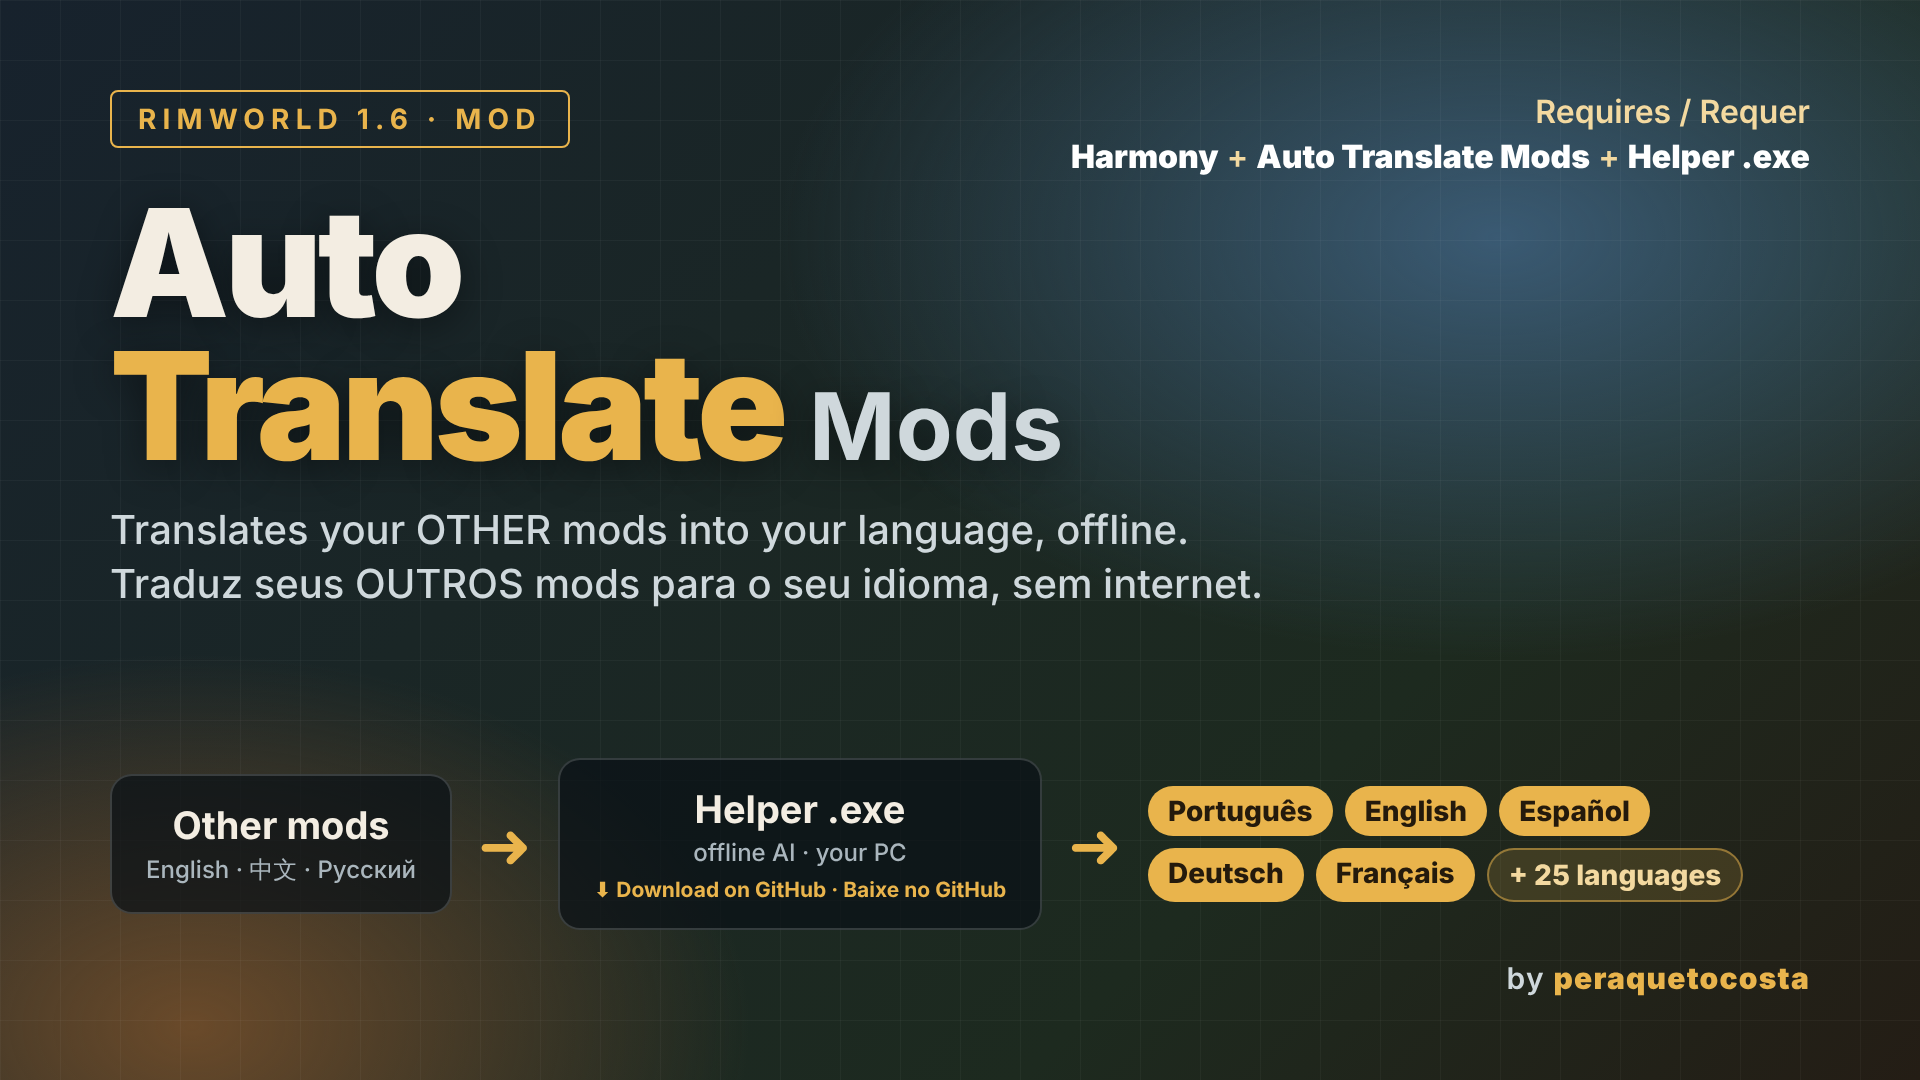
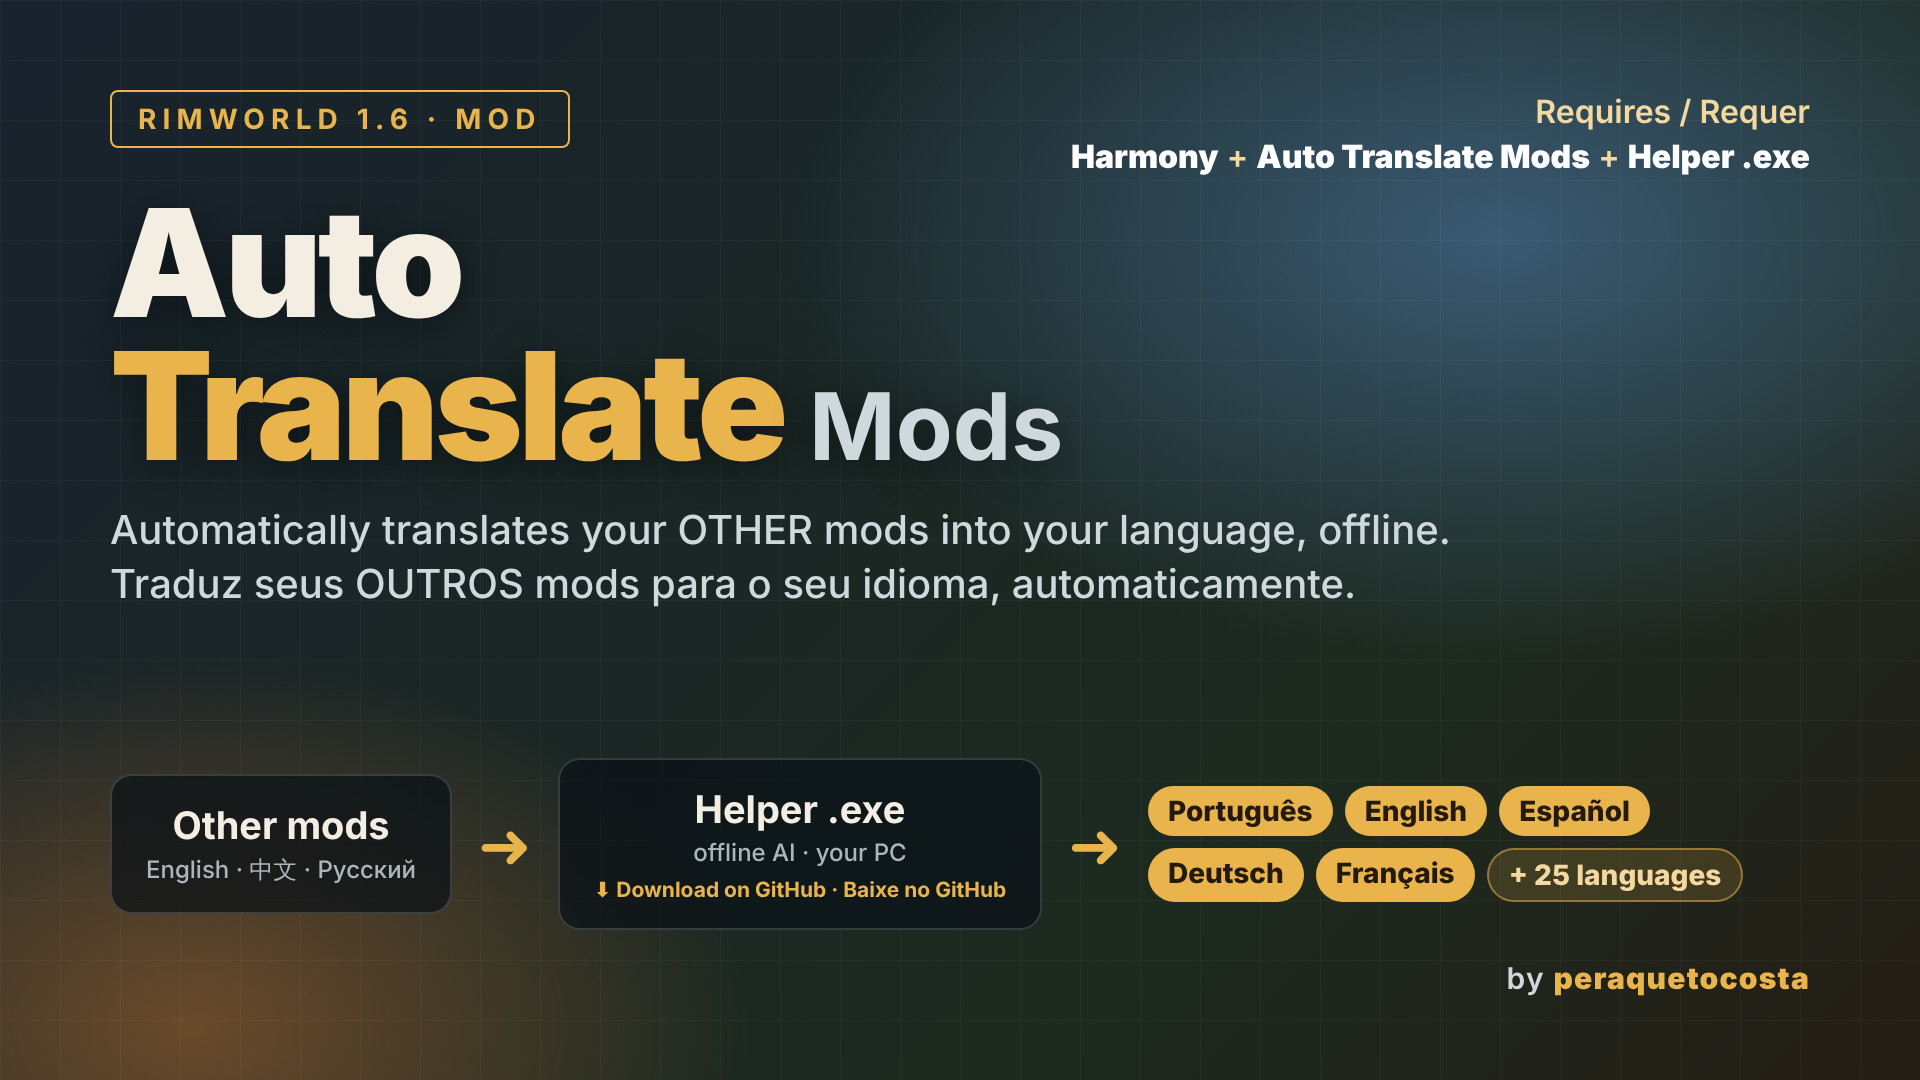
v0.016: descrição, nome e autor do mod, frase da capa
- Alterado: descrição do mod no jogo (inglês e português): "EM DESENVOLVIMENTO" em uma linha própria, "Feito com a ajuda do Claude Code", aviso de erros e bugs de tradução para reportar, uma linha em branco entre os blocos, e sem o link do Harmony (a dependência já mostra o botão de assinar); a versão saiu da descrição.
- Alterado: o mod agora se chama "Auto Translate Mods" e o autor é "peraquetocosta".
- Alterado: tools/set_version.py não atualiza mais a versão dentro do About.xml, porque ela saiu da descrição.
- Alterado: capa do mod: a frase de apoio diz que a tradução é automática ("Automatically translates..." e "Traduz seus OUTROS mods para o seu idioma, automaticamente.").

Changed region(s): [[0.0625, 0.4583, 0.75, 0.55]]

diff --git a/assets/cover.html b/assets/cover.html
@@ -22,7 +22,7 @@ h1 em{font-style:normal;font-weight:700;color:#cfd8dc;font-size:.62em;letter-spa
 </style></head><body><div class="grid"></div><div class="wrap">
 <div class="tag">RimWorld 1.6 · Mod</div>
 <h1>Auto<br><span>Translate</span> <em>Mods</em></h1>
-<div class="sub">Translates your OTHER mods into your language, offline.<br>Traduz seus OUTROS mods para o seu idioma, sem internet.</div>
+<div class="sub">Automatically translates your OTHER mods into your language, offline.<br>Traduz seus OUTROS mods para o seu idioma, automaticamente.</div>
 <div class="need">Requires / Requer<br><b>Harmony</b> + <b>Auto Translate Mods</b> + <b>Helper .exe</b></div>
 <div class="flow">
 <div class="box">Other mods<small>English · 中文 · Русский</small></div>

diff --git a/tools/set_version.py b/tools/set_version.py
@@ -1,7 +1,7 @@
 #!/usr/bin/env python3
 """Sync the project version everywhere from the VERSION file ("0.NNN"), or set it: tools/set_version.py 0.002
 
-Files updated: helper/pyproject.toml, helper/rwtranslate/__init__.py, mod/AutoTranslate.csproj, README.md, README.en.md and mod/About/About.xml (the "current version" mentions).
+Files updated: helper/pyproject.toml, helper/rwtranslate/__init__.py, mod/AutoTranslate.csproj, README.md and README.en.md (the "current version" mentions).
 `--check` only verifies they match (used by CI). Format is 0.NNN (three digits: 0.001, 0.002, ...) while the project is pre-1.0;
 the 3-part form 0.NNN.0 is used where the toolchain requires it (pip, .NET).
 """
@@ -25,8 +25,6 @@ def targets(v):
         (ROOT / "README.md", r"\(versão atual [^)]*\)", f"(versão atual {v})"),
         (ROOT / "README.en.md", r"\*\*Current version: [^*]+\*\*", f"**Current version: {v}**"),
         (ROOT / "README.en.md", r"\(current version [^)]*\)", f"(current version {v})"),
-        (ROOT / "mod/About/About.xml", r"Early version \([^)]*\)", f"Early version (current version {v})"),
-        (ROOT / "mod/About/About.xml", r"Versão inicial \([^)]*\)", f"Versão inicial (versão atual {v})"),
         (ROOT / "mod/AutoTranslate.csproj", r"<Version>[^<]+</Version>", f"<Version>{t}</Version>"),
     ]
 

diff --git a/helper/rwtranslate/__init__.py b/helper/rwtranslate/__init__.py
@@ -1,1 +1,1 @@
-__version__ = "0.015.0"
+__version__ = "0.016.0"

diff --git a/README.md b/README.md
@@ -10,12 +10,12 @@
 
 <div align="justify">
 
-**Versão atual: 0.015** · [Baixar na aba Releases](../../releases/latest)
+**Versão atual: 0.016** · [Baixar na aba Releases](../../releases/latest)
 
 Traduz **automaticamente** os outros mods do seu jogo para o seu idioma, **sem precisar de um mod de tradução para cada mod**.
 A tradução é feita **no seu computador, sem internet e de graça**. Cada tradução fica salva, então ela só é feita uma vez.
 
-> **Em desenvolvimento.** Este projeto foi feito com a ajuda do **Claude** (IA da Anthropic) e ainda está em fase inicial (versão atual 0.015). Veja "Estado atual" abaixo.
+> **Em desenvolvimento.** Este projeto foi feito com a ajuda do **Claude** (IA da Anthropic) e ainda está em fase inicial (versão atual 0.016). Veja "Estado atual" abaixo.
 
 <h2 align="left">Compatibilidade</h2>
 
@@ -122,7 +122,7 @@ Com o **modo desenvolvedor** do RimWorld ligado, o próprio jogo marca os textos
 
 <h2 align="left">Estado atual (transparência)</h2>
 
-Esta é uma **versão inicial** (versão atual 0.015), feita com a ajuda do Claude. O mod compila contra a API do RimWorld 1.6 e o código passou nos testes automáticos (inclusive o teste da janela do executável no Windows do GitHub), mas **ainda não foi testado a fundo dentro do RimWorld** nem com muitos mods reais. Podem aparecer erros, principalmente com mods que mexem nos mesmos textos. **A tradução automática não é 100% perfeita**, mas é bem melhor do que jogar com um mod que não está no seu idioma. **Se você encontrar qualquer erro, por favor reporte** (veja "Deu problema ou conflito com um mod?" abaixo): isso ajuda a melhorar o projeto para todo mundo.
+Esta é uma **versão inicial** (versão atual 0.016), feita com a ajuda do Claude. O mod compila contra a API do RimWorld 1.6 e o código passou nos testes automáticos (inclusive o teste da janela do executável no Windows do GitHub), mas **ainda não foi testado a fundo dentro do RimWorld** nem com muitos mods reais. Podem aparecer erros, principalmente com mods que mexem nos mesmos textos. **A tradução automática não é 100% perfeita**, mas é bem melhor do que jogar com um mod que não está no seu idioma. **Se você encontrar qualquer erro, por favor reporte** (veja "Deu problema ou conflito com um mod?" abaixo): isso ajuda a melhorar o projeto para todo mundo.
 
 <h2 align="left">Deu problema ou conflito com um mod?</h2>
 

diff --git a/README.en.md b/README.en.md
@@ -10,12 +10,12 @@
 
 <div align="justify">
 
-**Current version: 0.015** · [Download from the Releases tab](../../releases/latest)
+**Current version: 0.016** · [Download from the Releases tab](../../releases/latest)
 
 Translates the other mods in your game into your language **automatically**, **without needing a translation mod for each mod**.
 The translation runs **on your computer, offline and for free**. Every translation is saved, so it is only done once.
 
-> **Under development.** This project was made with the help of **Claude** (Anthropic's AI) and is still at an early stage (current version 0.015). See "Current status" below.
+> **Under development.** This project was made with the help of **Claude** (Anthropic's AI) and is still at an early stage (current version 0.016). See "Current status" below.
 
 <h2 align="left">Compatibility</h2>
 
@@ -122,7 +122,7 @@ With RimWorld's **developer mode** on, the game itself marks the texts that have
 
 <h2 align="left">Current status (transparency)</h2>
 
-This is an **early version** (current version 0.015), made with the help of Claude. The mod compiles against the RimWorld 1.6 API and the code passed the automated tests (including the executable's window test on GitHub's Windows), but it **has not yet been tested in depth inside RimWorld** nor with many real mods. Errors may appear, mainly with mods that touch the same texts. **Automatic translation is not 100% perfect**, but it is much better than playing with a mod that is not in your language. **If you find any mistake, please report it** (see "Problem or conflict with a mod?" below): it helps improve the project for everyone.
+This is an **early version** (current version 0.016), made with the help of Claude. The mod compiles against the RimWorld 1.6 API and the code passed the automated tests (including the executable's window test on GitHub's Windows), but it **has not yet been tested in depth inside RimWorld** nor with many real mods. Errors may appear, mainly with mods that touch the same texts. **Automatic translation is not 100% perfect**, but it is much better than playing with a mod that is not in your language. **If you find any mistake, please report it** (see "Problem or conflict with a mod?" below): it helps improve the project for everyone.
 
 <h2 align="left">Problem or conflict with a mod?</h2>
 

diff --git a/CHANGELOG.md b/CHANGELOG.md
@@ -4,6 +4,12 @@ Versioning: `0.NNN` (0.001, 0.002, ...) until the maintainer declares 1.0. **Eve
 (newest first). The same text goes in the commit message: `v0.NNN: short title` + list of changes.
 Version lives in `VERSION`; run `python tools/set_version.py` to sync it into the helper and the mod.
 
+## v0.016 - 2026-10-14
+- Alterado: descrição do mod no jogo (inglês e português): "EM DESENVOLVIMENTO" em uma linha própria, "Feito com a ajuda do Claude Code", aviso de erros e bugs de tradução para reportar, uma linha em branco entre os blocos, e sem o link do Harmony (a dependência já mostra o botão de assinar); a versão saiu da descrição.
+- Alterado: o mod agora se chama "Auto Translate Mods" e o autor é "peraquetocosta".
+- Alterado: tools/set_version.py não atualiza mais a versão dentro do About.xml, porque ela saiu da descrição.
+- Alterado: capa do mod: a frase de apoio diz que a tradução é automática ("Automatically translates..." e "Traduz seus OUTROS mods para o seu idioma, automaticamente.").
+
 ## v0.015 - 2026-10-14
 - Alterado: capa do mod para a Steam: título "Auto Translate Mods", autor "peraquetocosta", requisitos (Harmony, Auto Translate Mods e Helper .exe) e a mensagem "Baixe no GitHub" centralizada no quadro do programa.
 
